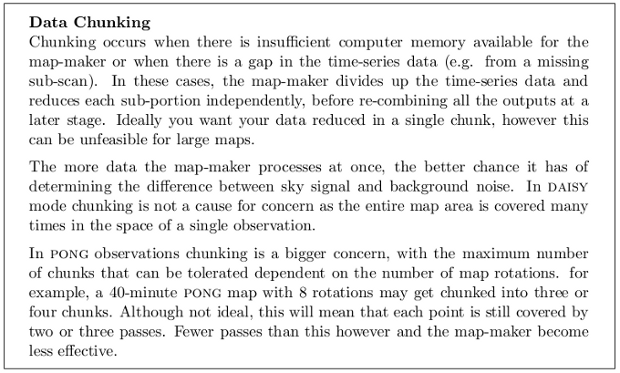
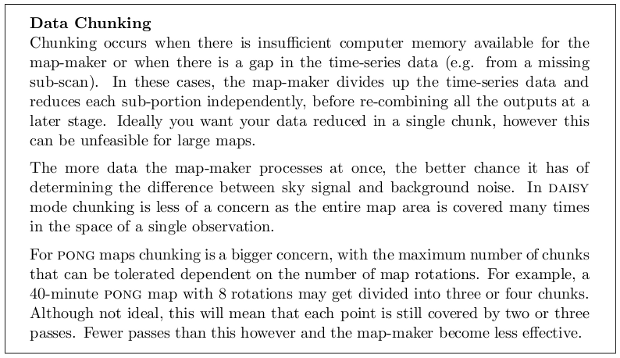
docs: SC/21---some rewording of the Data Chunking box. (cherry picked from commit ac197a0decc90072a1aef82fa0d7777155d8755d)

diff --git a/docs/sc/021/sc21.tex b/docs/sc/021/sc21.tex
@@ -2215,11 +2215,11 @@ large maps.
 \vspace{0.2cm}\\
 The more data the map-maker processes at once, the better chance it
 has of determining the difference between sky signal and background
-noise. In \textsc{daisy} mode chunking is not a cause for concern as
+noise. In \textsc{daisy} mode chunking is less of a concern as
 the entire map area is covered many times in the space of a single
 observation.
 \vspace{0.2cm}\\
-In \textsc{pong} observations chunking is a bigger concern, with the
+For \textsc{pong} maps chunking is a bigger concern, with the
 maximum number of chunks that can be tolerated dependent on the number
 of map rotations. For example, a 40-minute \textsc{pong} map with 8
 rotations may get divided into three or four chunks. Although not
